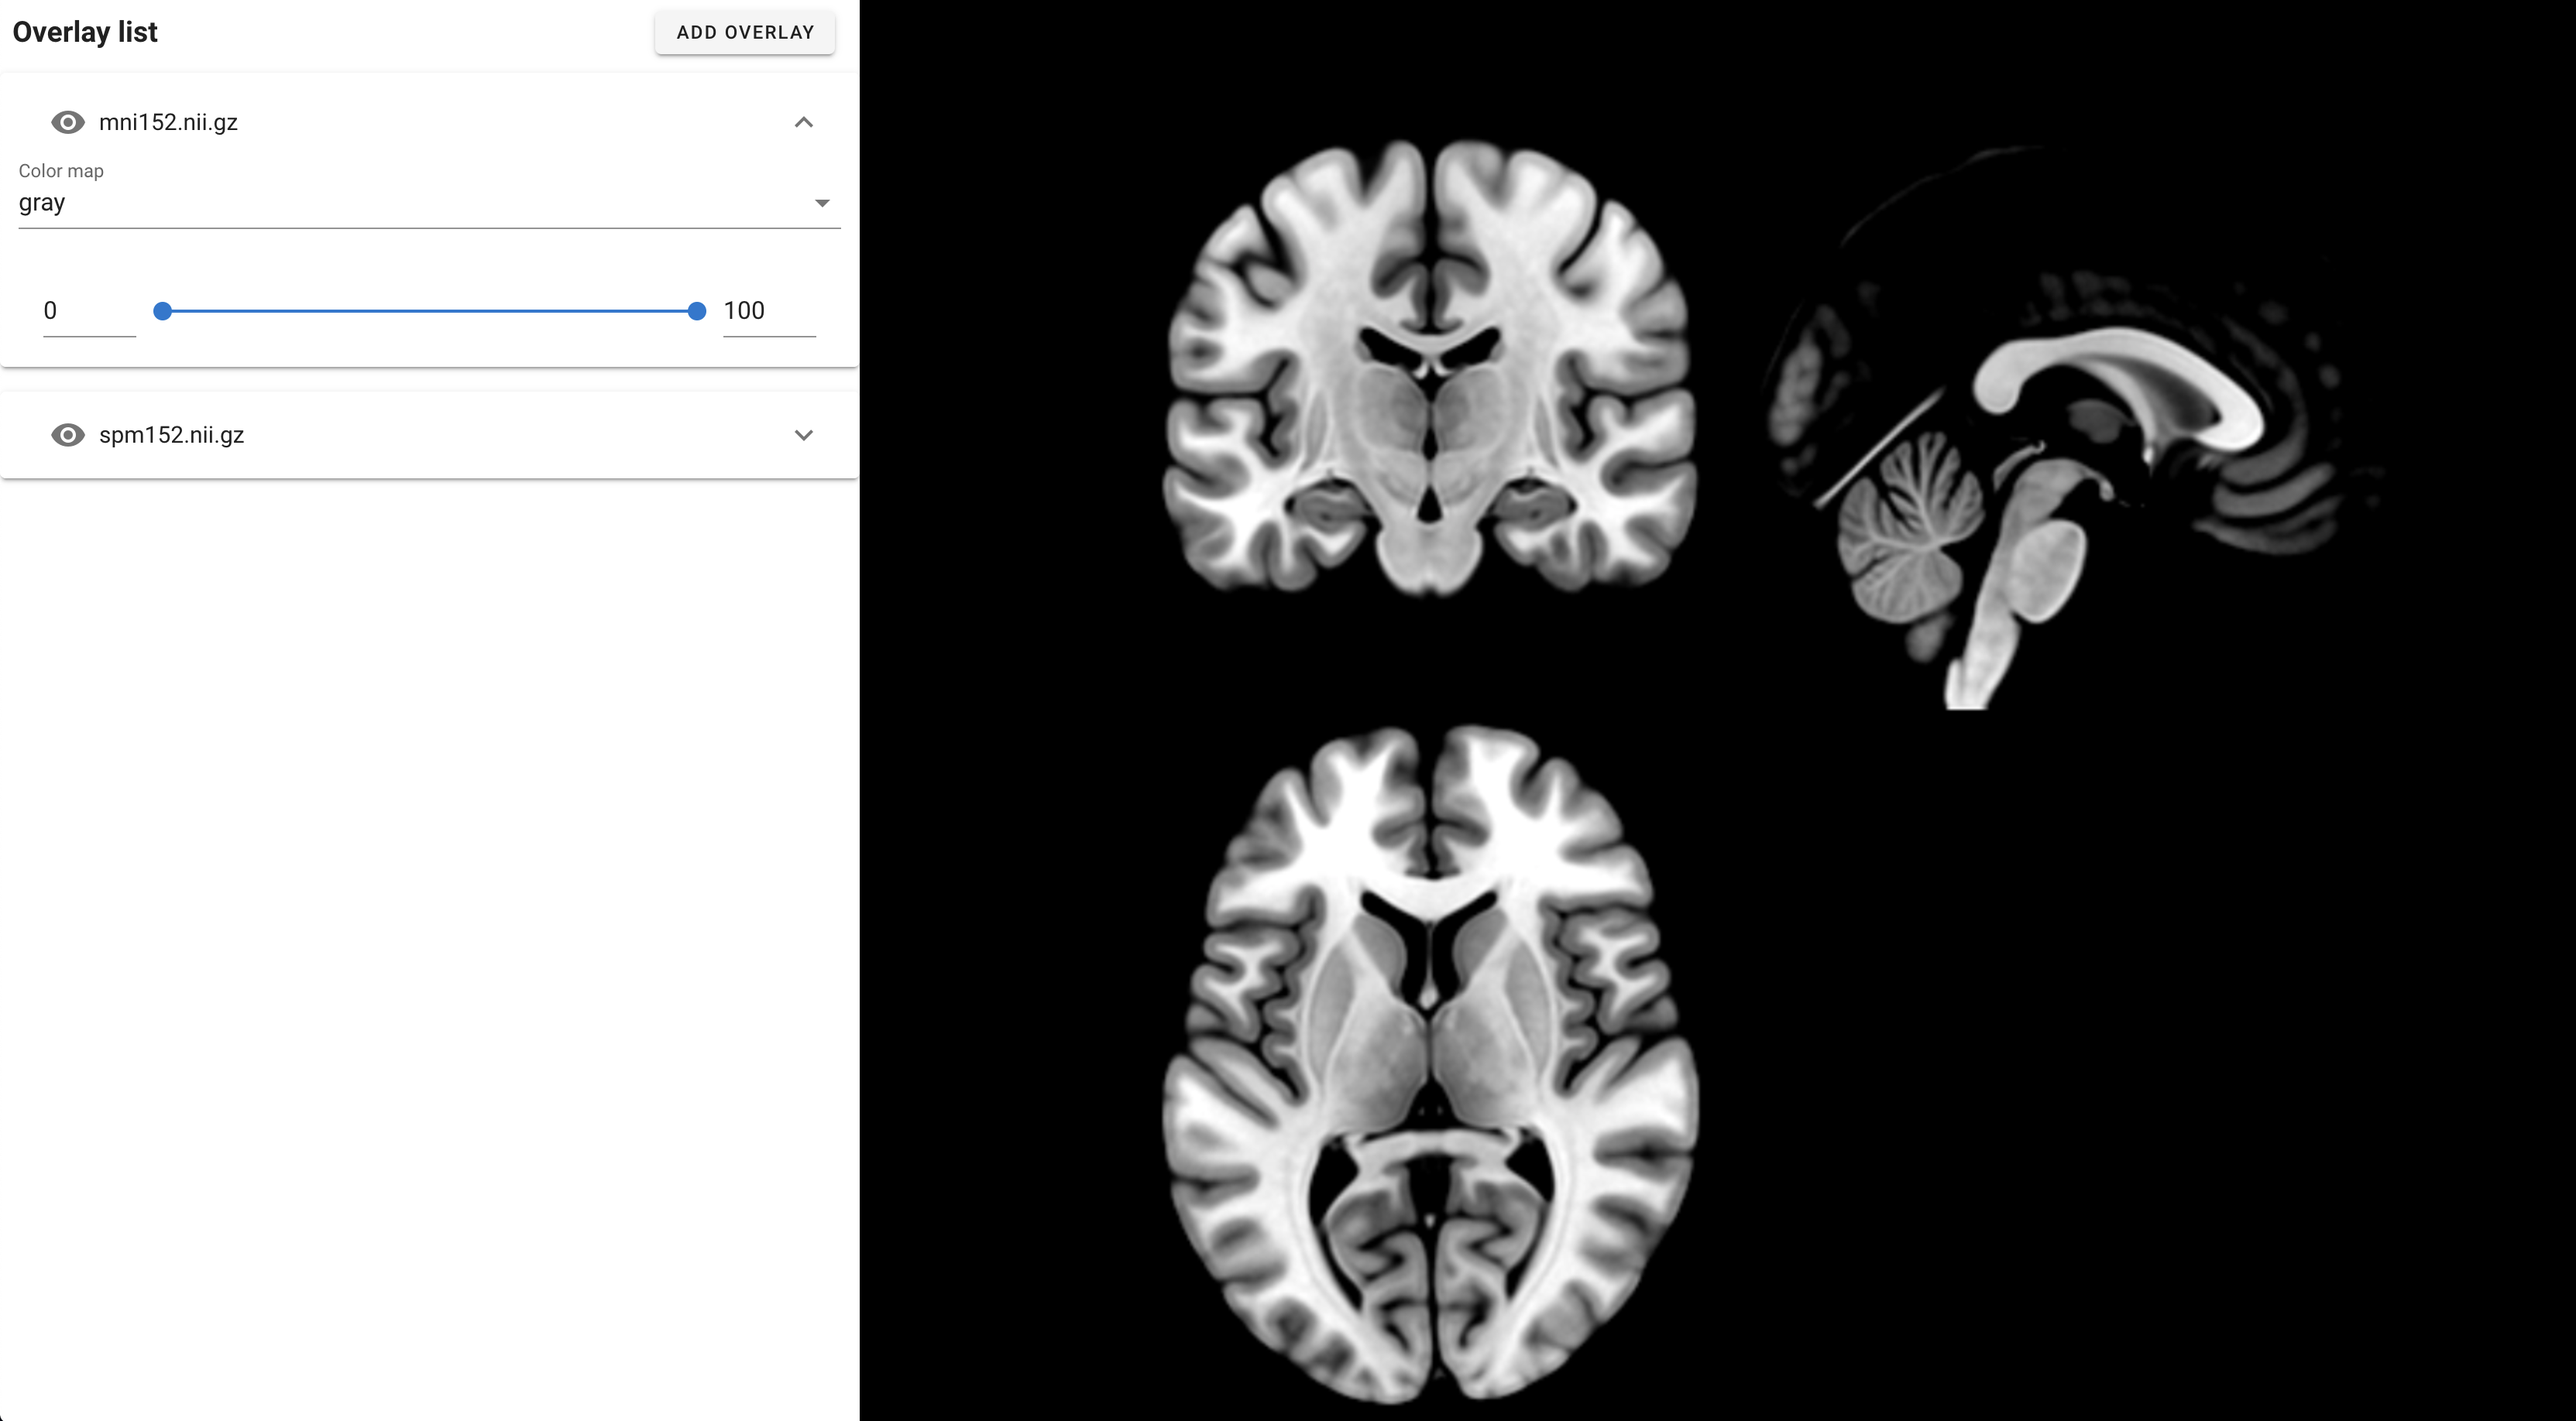
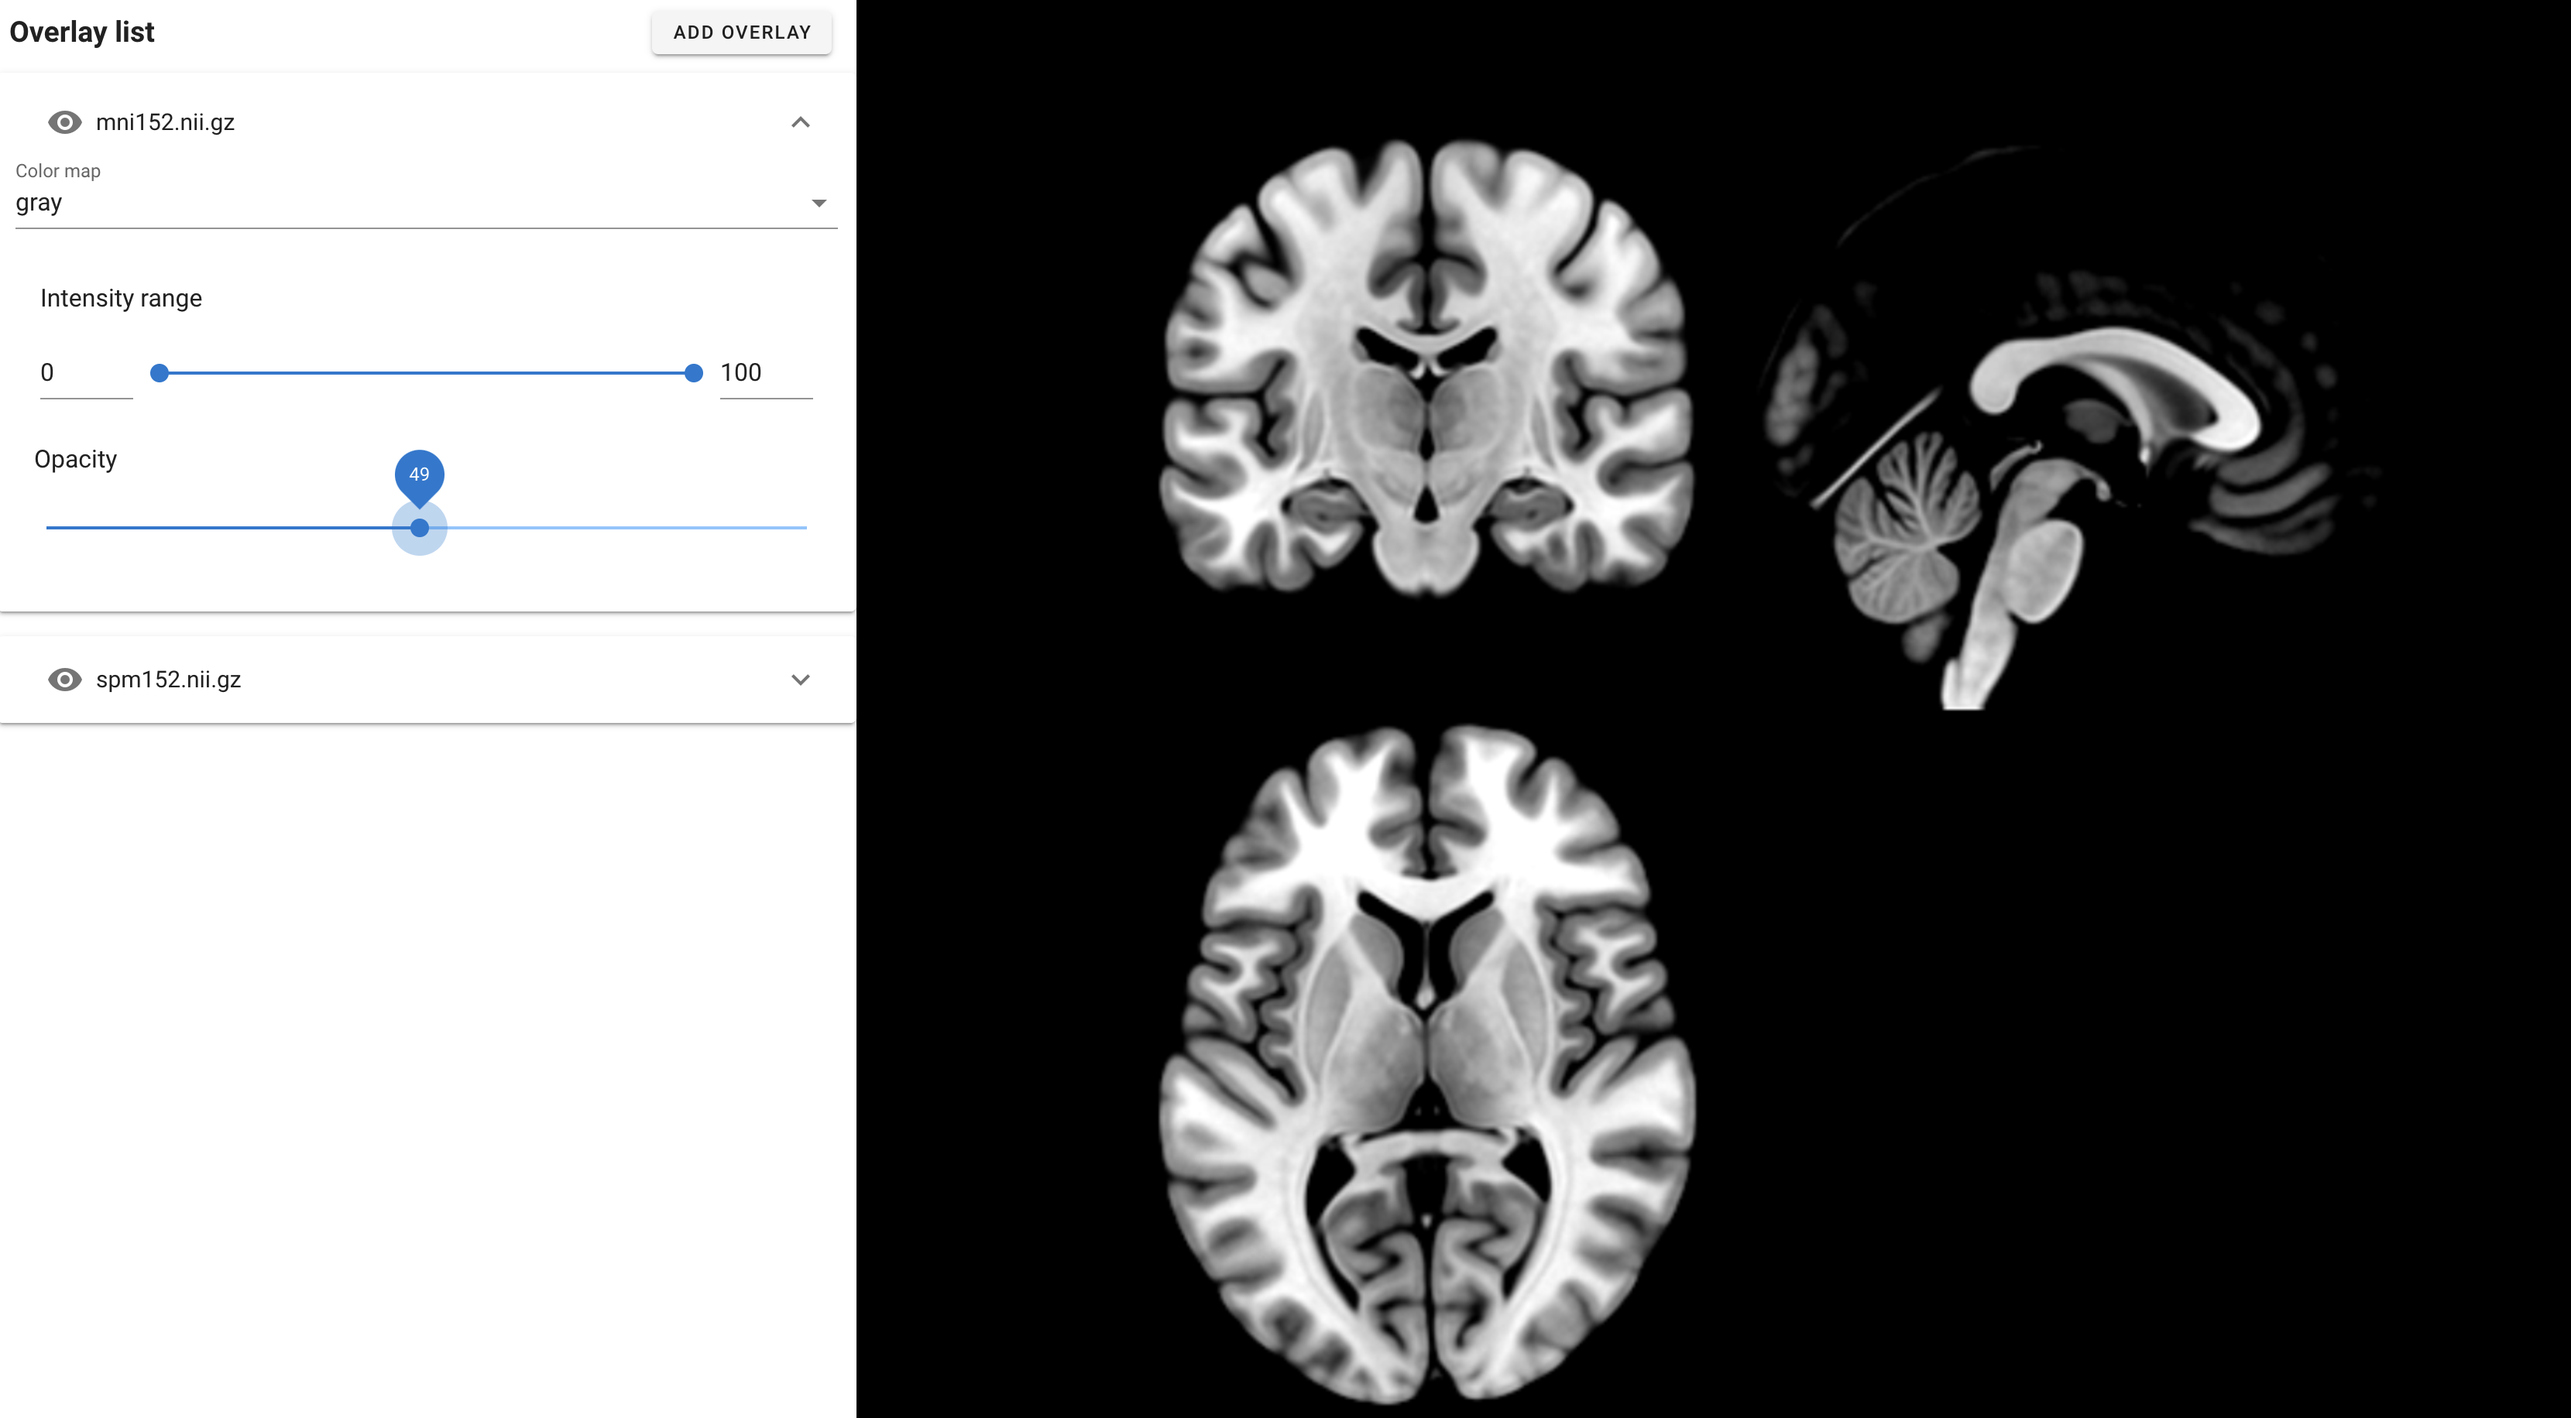
add opacity control example

diff --git a/src/components/controls.vue b/src/components/controls.vue
@@ -27,6 +27,7 @@
             </v-row>
             <v-row>
              <v-col class="px-4">
+              <p>Intensity range</p>
               <v-range-slider
                 v-model="overlay.intensityRange"
                 :max="overlay.intensityMax"
@@ -58,6 +59,19 @@
                 </template>
               </v-range-slider>
             </v-col> 
+            </v-row>
+
+            <v-row>
+              <v-col>
+              <p>Opacity</p>
+                <v-slider
+                  v-model="overlay.opacity"
+                  step="1"
+                  thumb-label
+                  ticks
+                >
+                </v-slider>
+              </v-col>
             </v-row>
             
           </v-expansion-panel-content>
